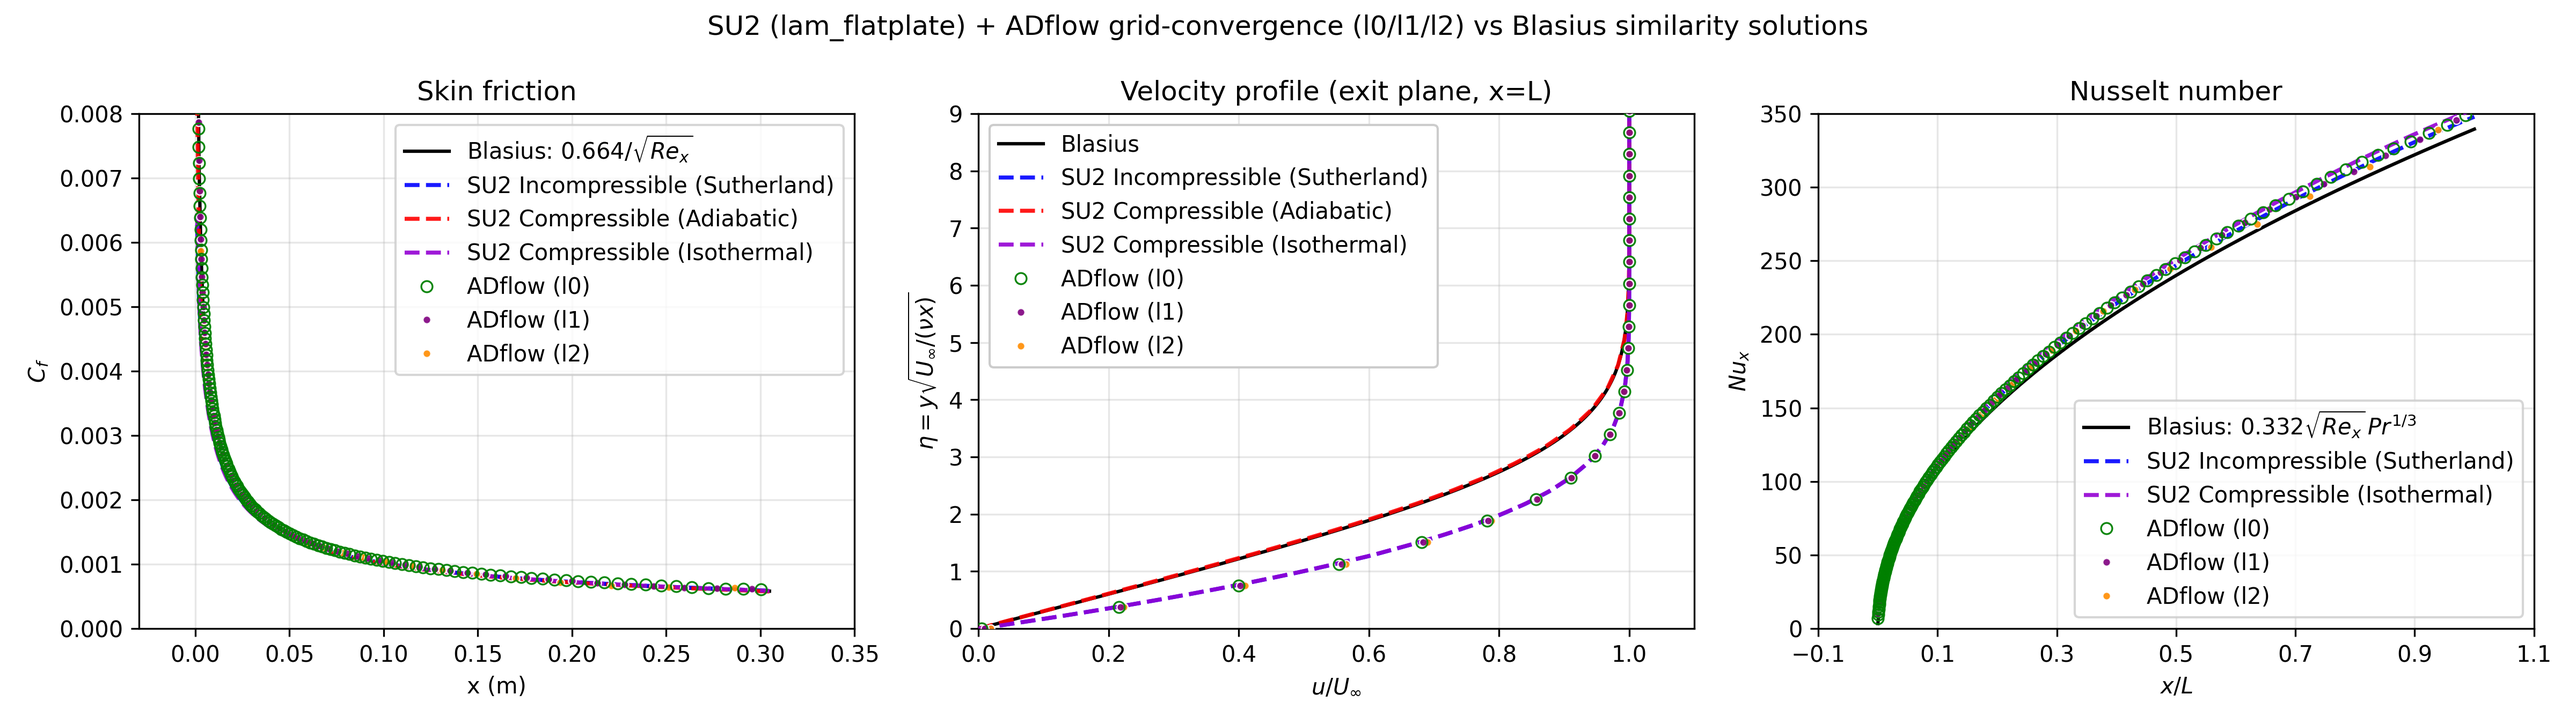
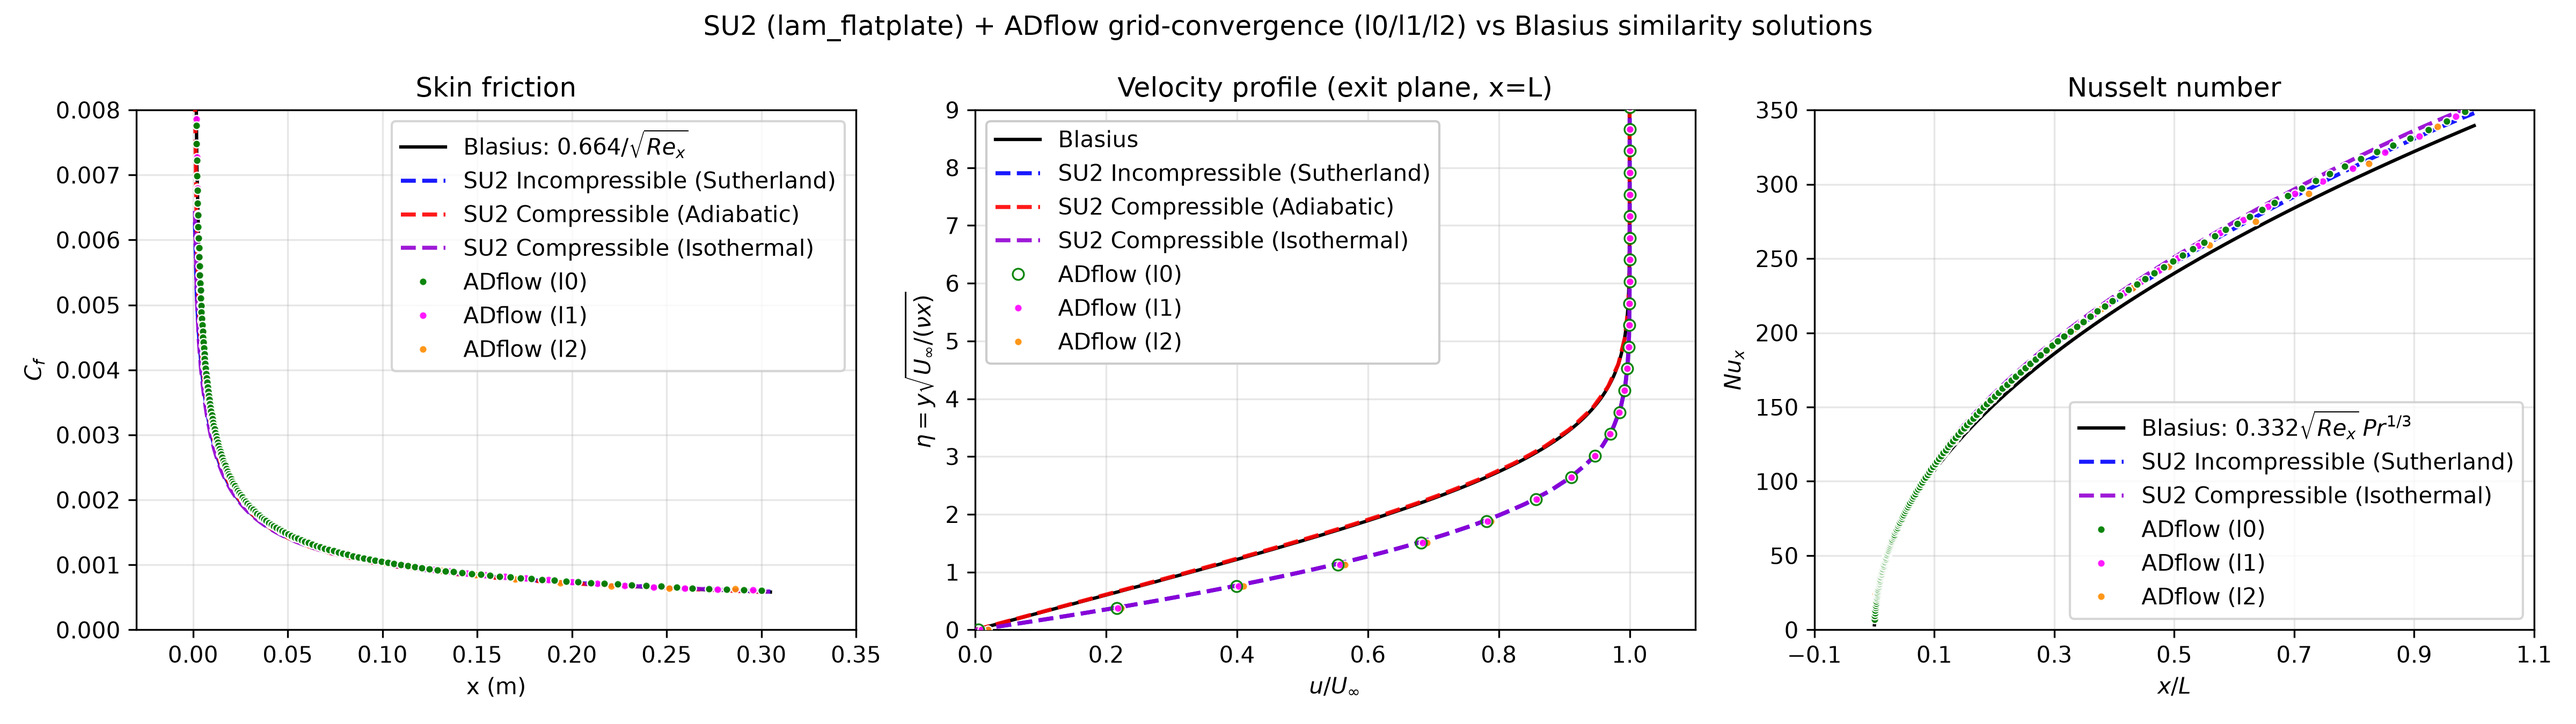
final

diff --git a/plot.py b/plot.py
@@ -219,8 +219,8 @@ ADFLOW_CASES = {
     "l0": dict(dir="gc_study/l0", color="green", label="ADflow (l0)",
                ms=5.0, mfc="none", mec="green", mew=0.8, alpha=0.95, zorder=7,
                wall_ms=3.5, wall_mfc="green", wall_mec="white", wall_mew=0.6),
-    "l1": dict(dir="gc_study/l1", color="purple", label="ADflow (l1)",
-               ms=3.5, mfc="purple", mec="white", mew=0.6, alpha=0.9, zorder=6),
+    "l1": dict(dir="gc_study/l1", color="magenta", label="ADflow (l1)",
+               ms=3.5, mfc="magenta", mec="white", mew=0.6, alpha=0.9, zorder=6),
     "l2": dict(dir="gc_study/l2", color="darkorange", label="ADflow (l2)",
                ms=3.5, mfc="darkorange", mec="white", mew=0.6, alpha=0.9, zorder=5),
 }
